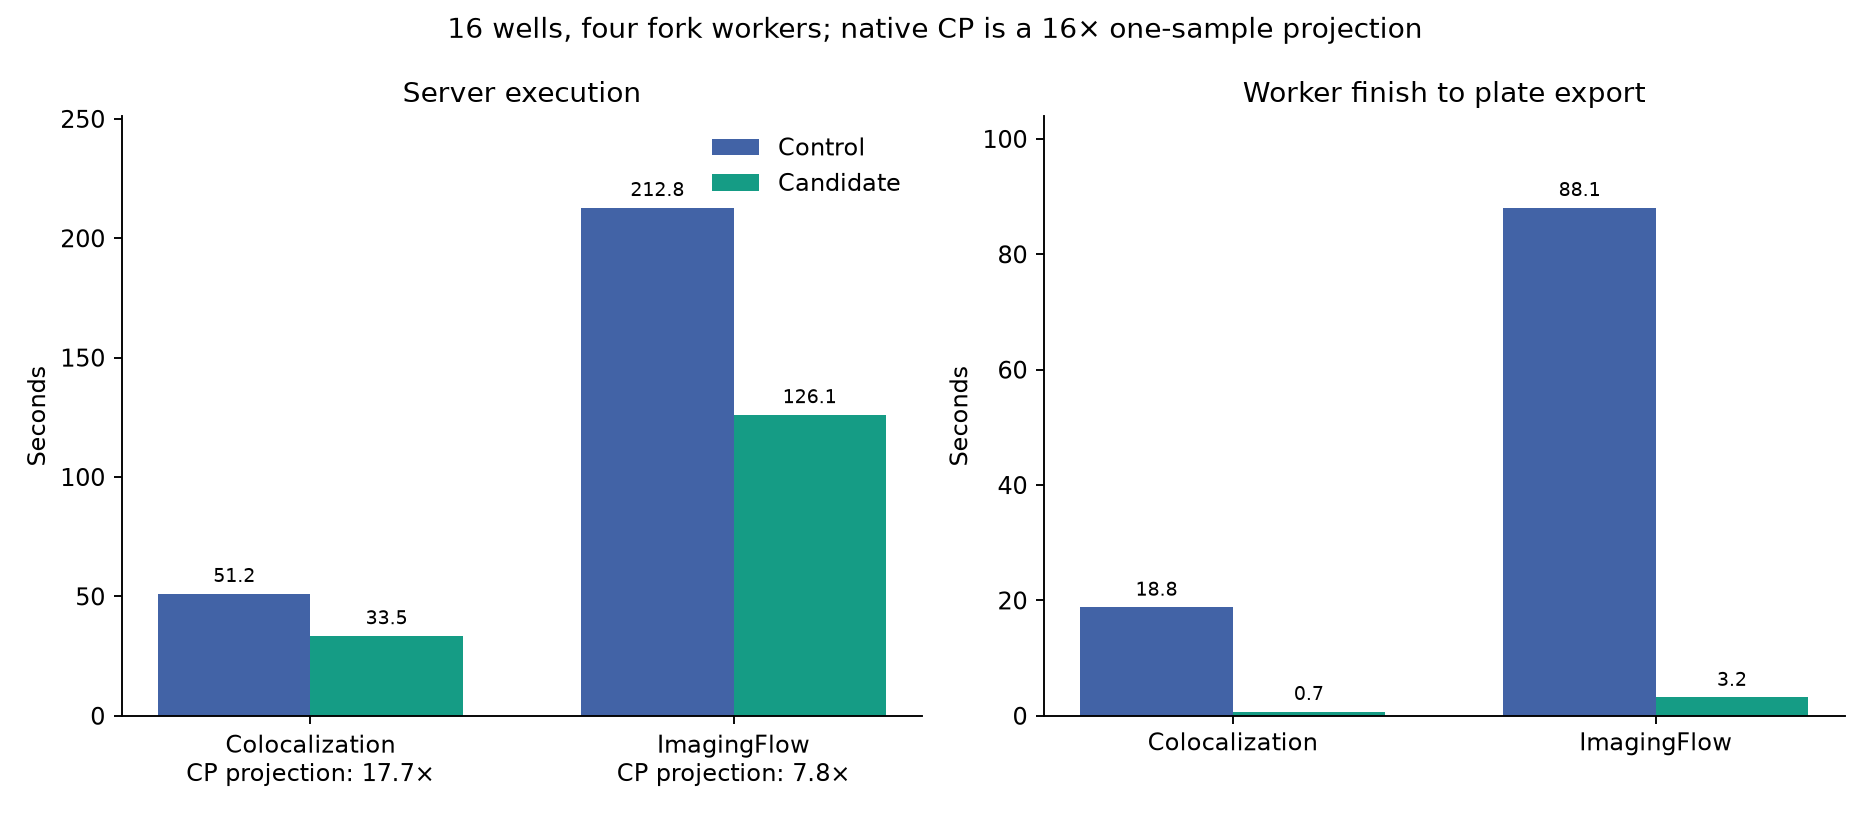
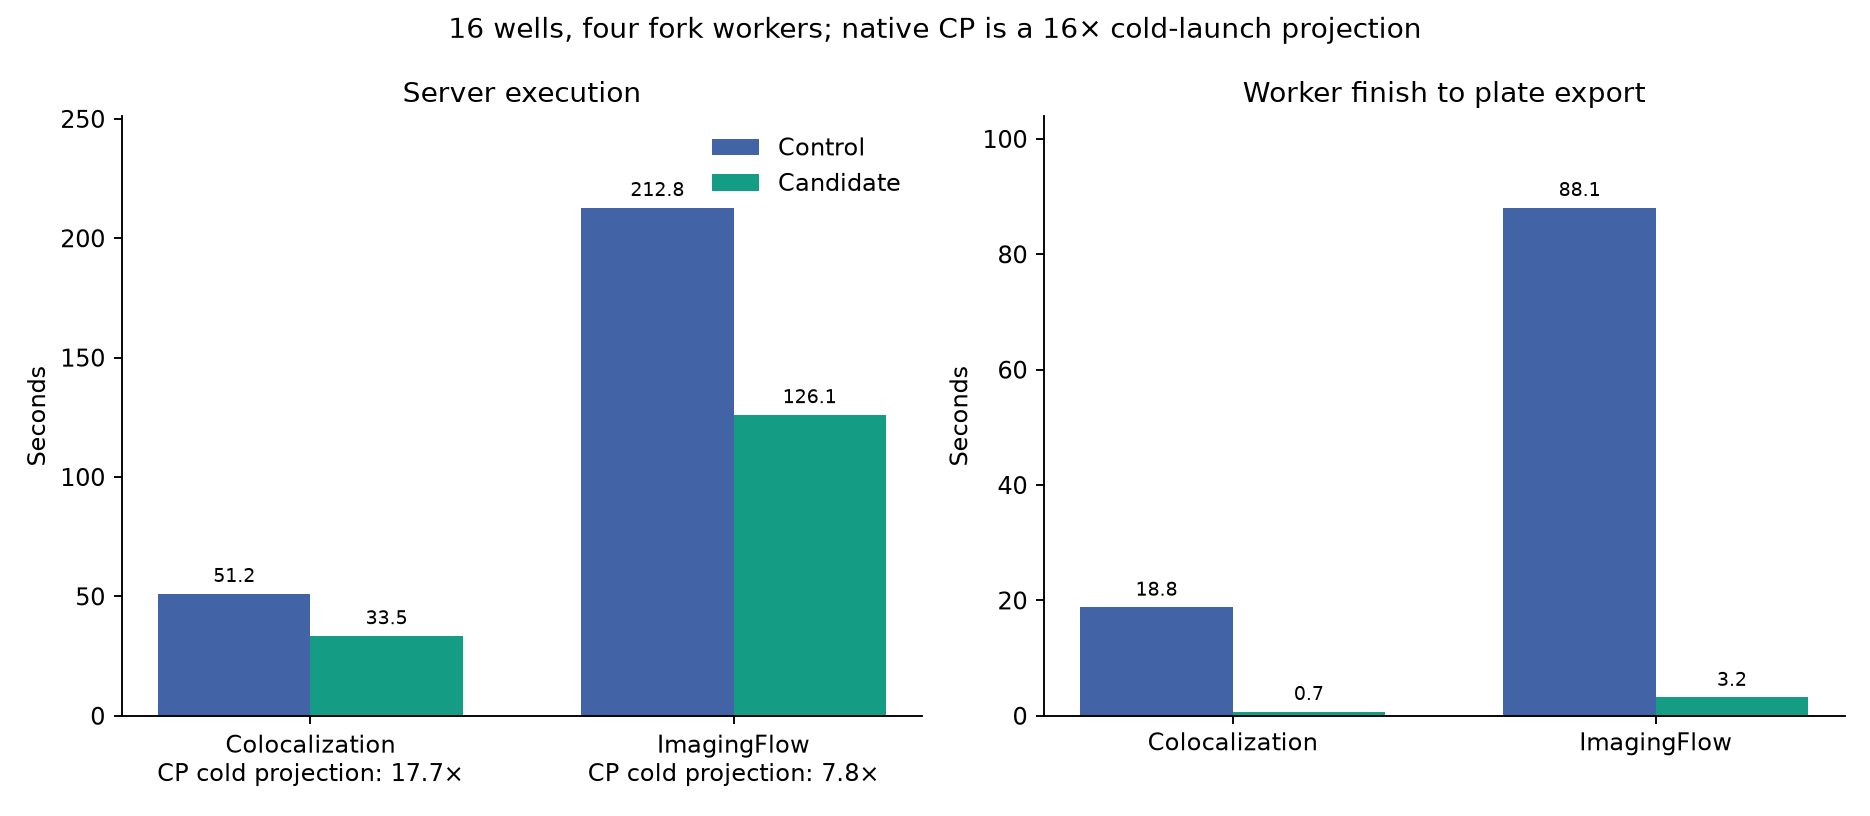
Link measured native plate results from transport report
Distinguish the historical 16× cold-launch projection from the four-job native CP measurements in PR #197 for issue #196.

diff --git a/benchmark/results/perf_plate_input_transport_20260929/plot.py b/benchmark/results/perf_plate_input_transport_20260929/plot.py
@@ -102,13 +102,13 @@ def plot_multiwell() -> None:
     axes[0].set_xticks(
         positions,
         tuple(
-            f"{label}\nCP projection: {speedup:.1f}×"
+            f"{label}\nCP cold projection: {speedup:.1f}×"
             for label, speedup in zip(labels, native_speedups, strict=True)
         ),
     )
     axes[0].legend(frameon=False)
     fig.suptitle(
-        "16 wells, four fork workers; native CP is a 16× one-sample projection"
+        "16 wells, four fork workers; native CP is a 16× cold-launch projection"
     )
     fig.tight_layout()
     fig.savefig(ROOT / "multiwell_execution_and_transfer.png", dpi=170)

diff --git a/benchmark/results/perf_plate_input_transport_20260929/README.md b/benchmark/results/perf_plate_input_transport_20260929/README.md
@@ -1,6 +1,6 @@
 # Transfer only declared plate inputs from worker lanes (2026-09-29)
 
-This report supports [OpenHCS issue #192](https://github.com/OpenHCSDev/openhcs/issues/192) and [draft PR #193](https://github.com/OpenHCSDev/openhcs/pull/193). The control is integrated commit `cc0615a9f`, which contains the single-axis compilation fix in [draft PR #191](https://github.com/OpenHCSDev/openhcs/pull/191) and separate pending performance changes from PRs #157, #170, and #175. The candidate adds only the plate-input transport change to that integration checkout. The review branch includes #157 as a prerequisite because #191 is not based on it. Four-worker observations use `fork`, 16 wells, one native thread per worker, and a fresh client-owned execution server. One-well observations also use a fresh server. The change affects execution and total time; it does not change compilation.
+This report supports [OpenHCS issue #192](https://github.com/OpenHCSDev/openhcs/issues/192) and [PR #193](https://github.com/OpenHCSDev/openhcs/pull/193). The control is integrated commit `cc0615a9f`, which contains the single-axis compilation fix in [PR #191](https://github.com/OpenHCSDev/openhcs/pull/191) and separate pending performance changes from PRs #157, #170, and #175. The candidate adds only the plate-input transport change to that integration checkout. The review branch includes #157 as a prerequisite because #191 is not based on it. Four-worker observations use `fork`, 16 wells, one native thread per worker, and a fresh client-owned execution server. One-well observations also use a fresh server. The change affects execution and total time; it does not change compilation.
 
 `ExampleColocalization` exposed a **18.8–25.6-second gap** between the last worker completing and the plate spreadsheet starting. Instrumenting the worker pipe showed sequential result serialization and receipt. One four-well lane sent about **1.54 GB** of pickled runtime records: 1.11 GB object labels, 382 MB images, 41 MB measurements, and less than 1 MB relationships. The spreadsheet's compiled artifact inputs require measurements and relationships. The new `MERGE_PLATE_INPUTS` observation mode derives retained artifact types from those compiled inputs. Explicit full-value observation and analysis consolidation still retain every record. Runtime export paths are found before filtering.
 
@@ -22,7 +22,7 @@ All **30/30** cases succeeded; **110/110** generated result files matched by rel
 
 The plate-level export remained near 15 seconds for Colocalization and 52 seconds for ImagingFlow; the gain comes from worker-result transfer. Both 16-well plate exports matched the control byte for byte. The ImagingFlow candidate's measured process-tree peak memory was slightly higher (14.14 versus 13.72 GB), so this result does not establish a memory reduction.
 
-The native CellProfiler 4.2.8.1 reference is a separately measured **single-sample execution** baseline, projected to 16 wells by multiplication. Its projected 16-well execution is 592.570 seconds for Colocalization and 985.625 seconds for ImagingFlow. Relative to that projection, the candidate execution is 17.69× and 7.82× faster, respectively. These are projections, not native 16-well measurements; the OpenHCS total timer includes server startup and compilation and is not divided by the native execution timer.
+The earlier native CellProfiler 4.2.8.1 single-sample `EXECUTE_NATIVE_CP` baseline includes a fresh subprocess launch. Multiplying it by 16 gives **cold-launch projections** of 592.570 seconds for Colocalization and 985.625 seconds for ImagingFlow. Those are not measured native plate runs. [PR #197](https://github.com/OpenHCSDev/openhcs/pull/197) instead measured warm native four-job makespans of **451.878** and **388.431 seconds**, respectively, on the same 16 synthetic wells. Relative to this PR's OpenHCS candidate execution observations, the measured warm native ratios are **13.49×** for Colocalization and **3.08×** for ImagingFlow. The later spreadsheet-folding improvement in PR #195 lowers ImagingFlow OpenHCS execution further to 115.808 seconds, giving a **3.35×** measured ratio. The figure below retains the older projection as a labeled historical reference; PR #197 contains the measured scaling figure and timing-boundary details.
 
 ![Multiwell execution and worker-transfer gaps](multiwell_execution_and_transfer.png)
 
